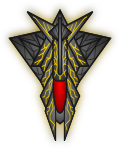
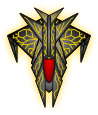
can change the ships color

diff --git a/Assets/Shop/ShopManager.cs b/Assets/Shop/ShopManager.cs
@@ -44,7 +44,6 @@ public class ShopManager : MonoBehaviour
         switch (shopItem.name)
         {
             case "Armor Up":
-                Debug.Log("Fuck u");
                 player.GetComponent<Player>().maxHealth += 50;
                 buyShop.GetComponent<Shop>().changePrice(shopItem.name, (int)(shopItem.cost * upgradeAmount));
                 break;
@@ -85,14 +84,32 @@ public class ShopManager : MonoBehaviour
                 player.GetComponent<Player>().weapon.bullet.bulletDamage += 3;
                 player.GetComponent<SpriteRenderer>().sprite = playerSprites[whichShipColorBase + whichShipLevel + 1];
                 whichShipLevel += 1;
-                player.GetComponent<BoxCollider2D>().size = new Vector2(.7f, 1.25f);
+                if(whichShipLevel == 1)
+                {
+                    player.GetComponent<BoxCollider2D>().size = new Vector2(.7f, 1f);
+                }
+                
                 if(whichShipLevel == 2)
                 {
                     buyShop.GetComponent<Shop>().RemoveItem(shopItem.name);
+                    player.GetComponent<BoxCollider2D>().size = new Vector2(.7f, 1.25f);
                 }
                 buyShop.GetComponent<Shop>().changePrice(shopItem.name, (int)(shopItem.cost * upgradeAmount));
                 break;
 
+            case "Switch Color":
+                if(whichShipColorBase == playerSprites.Count - 3)
+                {
+                    player.GetComponent<SpriteRenderer>().sprite = playerSprites[whichShipLevel];
+                    whichShipColorBase = 0;
+                }
+                else 
+                {
+                    player.GetComponent<SpriteRenderer>().sprite = playerSprites[whichShipColorBase + 3 + whichShipLevel];
+                    whichShipColorBase += 3;
+                }
+
+                break;
             //cases for different colors
 
         }
